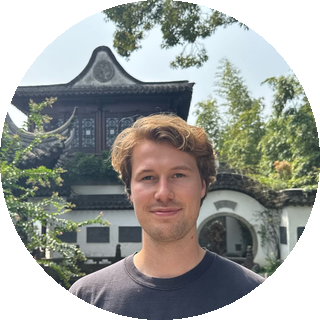
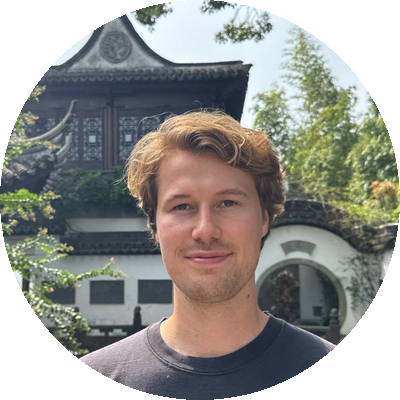
Signature v4: 130px photo, tighter face crop, p-based rows

diff --git a/public/img/signature.html b/public/img/signature.html
@@ -1,30 +1,22 @@
-<table border="0" cellpadding="0" cellspacing="0" role="presentation" style="font-family:Arial,Helvetica,sans-serif;border-collapse:collapse;">
+<table border="0" cellpadding="0" cellspacing="0" role="presentation" style="font-family:Arial,Helvetica,sans-serif;border-collapse:collapse;mso-table-lspace:0;mso-table-rspace:0;">
   <tr>
-    <td style="padding:0 20px 0 0;vertical-align:middle;">
-      <img src="https://www.productiveswitch.nl/img/douwe-signature-round.png" width="110" height="110" alt="Douwe de Vries" style="display:block;width:110px;height:110px;border:0;border-radius:55px;">
+    <td rowspan="2" width="130" style="padding:0 20px 0 0;vertical-align:middle;">
+      <img src="https://www.productiveswitch.nl/img/douwe-signature-round.png" width="130" height="130" alt="Douwe de Vries" style="display:block;width:130px;height:130px;border:0;border-radius:65px;">
     </td>
     <td style="padding:0 0 0 20px;border-left:2px solid #2F7A6A;vertical-align:middle;">
-      <table border="0" cellpadding="0" cellspacing="0" role="presentation">
-        <tr><td style="font-size:17px;line-height:22px;font-weight:bold;color:#152523;padding:0 0 2px;">Douwe de Vries</td></tr>
-        <tr><td style="font-size:13px;line-height:18px;color:#55615D;padding:0 0 10px;">Founder, Productive Switch</td></tr>
-        <tr><td style="font-size:13px;line-height:19px;color:#152523;padding:0;"><a href="mailto:douwe@productiveswitch.nl" style="color:#152523;text-decoration:none;">douwe@productiveswitch.nl</a></td></tr>
-        <tr><td style="font-size:13px;line-height:19px;color:#152523;padding:0 0 10px;"><a href="tel:+31643438424" style="color:#152523;text-decoration:none;">+31 6 4343 8424</a></td></tr>
-        <tr><td style="font-size:13px;line-height:19px;padding:0;">
-          <a href="https://www.productiveswitch.nl" style="color:#2F7A6A;text-decoration:none;font-weight:bold;">productiveswitch.nl</a>
-          <span style="color:#B9BFB9;">&nbsp;&middot;&nbsp;</span>
-          <a href="https://www.linkedin.com/company/productive-switch" style="color:#2F7A6A;text-decoration:none;font-weight:bold;">LinkedIn</a>
-        </td></tr>
-      </table>
+      <p style="margin:0;font-size:18px;line-height:22px;font-weight:bold;color:#152523;">Douwe de Vries</p>
+      <p style="margin:0 0 12px;font-size:13px;line-height:18px;color:#55615D;">Founder, Productive Switch</p>
+      <p style="margin:0;font-size:13px;line-height:20px;color:#152523;"><a href="mailto:douwe@productiveswitch.nl" style="color:#152523;text-decoration:none;">douwe@productiveswitch.nl</a></p>
+      <p style="margin:0 0 12px;font-size:13px;line-height:20px;color:#152523;"><a href="tel:+31643438424" style="color:#152523;text-decoration:none;">+31 6 4343 8424</a></p>
+      <p style="margin:0;font-size:13px;line-height:20px;"><a href="https://www.productiveswitch.nl" style="color:#2F7A6A;text-decoration:none;font-weight:bold;">productiveswitch.nl</a><span style="color:#B9BFB9;">&nbsp;&nbsp;&middot;&nbsp;&nbsp;</span><a href="https://www.linkedin.com/company/productive-switch" style="color:#2F7A6A;text-decoration:none;font-weight:bold;">LinkedIn</a></p>
     </td>
   </tr>
   <tr>
-    <td colspan="2" style="padding:16px 0 0;">
-      <table border="0" cellpadding="0" cellspacing="0" role="presentation">
-        <tr>
-          <td style="vertical-align:middle;padding:0 10px 0 0;"><img src="https://www.productiveswitch.nl/img/logo-mark-256.png" width="34" height="22" alt="" style="display:block;width:34px;height:22px;border:0;"></td>
-          <td style="vertical-align:middle;font-size:12px;line-height:16px;color:#55615D;">Werving voor senior HR-professionals en omscholing via gerichte outplacementtrajecten.</td>
-        </tr>
-      </table>
+    <td style="padding:14px 0 0 20px;vertical-align:middle;">
+      <table border="0" cellpadding="0" cellspacing="0" role="presentation"><tr>
+        <td style="vertical-align:middle;padding:0 10px 0 0;"><img src="https://www.productiveswitch.nl/img/logo-mark-256.png" width="34" height="22" alt="" style="display:block;width:34px;height:22px;border:0;"></td>
+        <td style="vertical-align:middle;font-size:12px;line-height:16px;color:#55615D;">Werving voor senior HR-professionals en omscholing via gerichte outplacementtrajecten.</td>
+      </tr></table>
     </td>
   </tr>
 </table>
